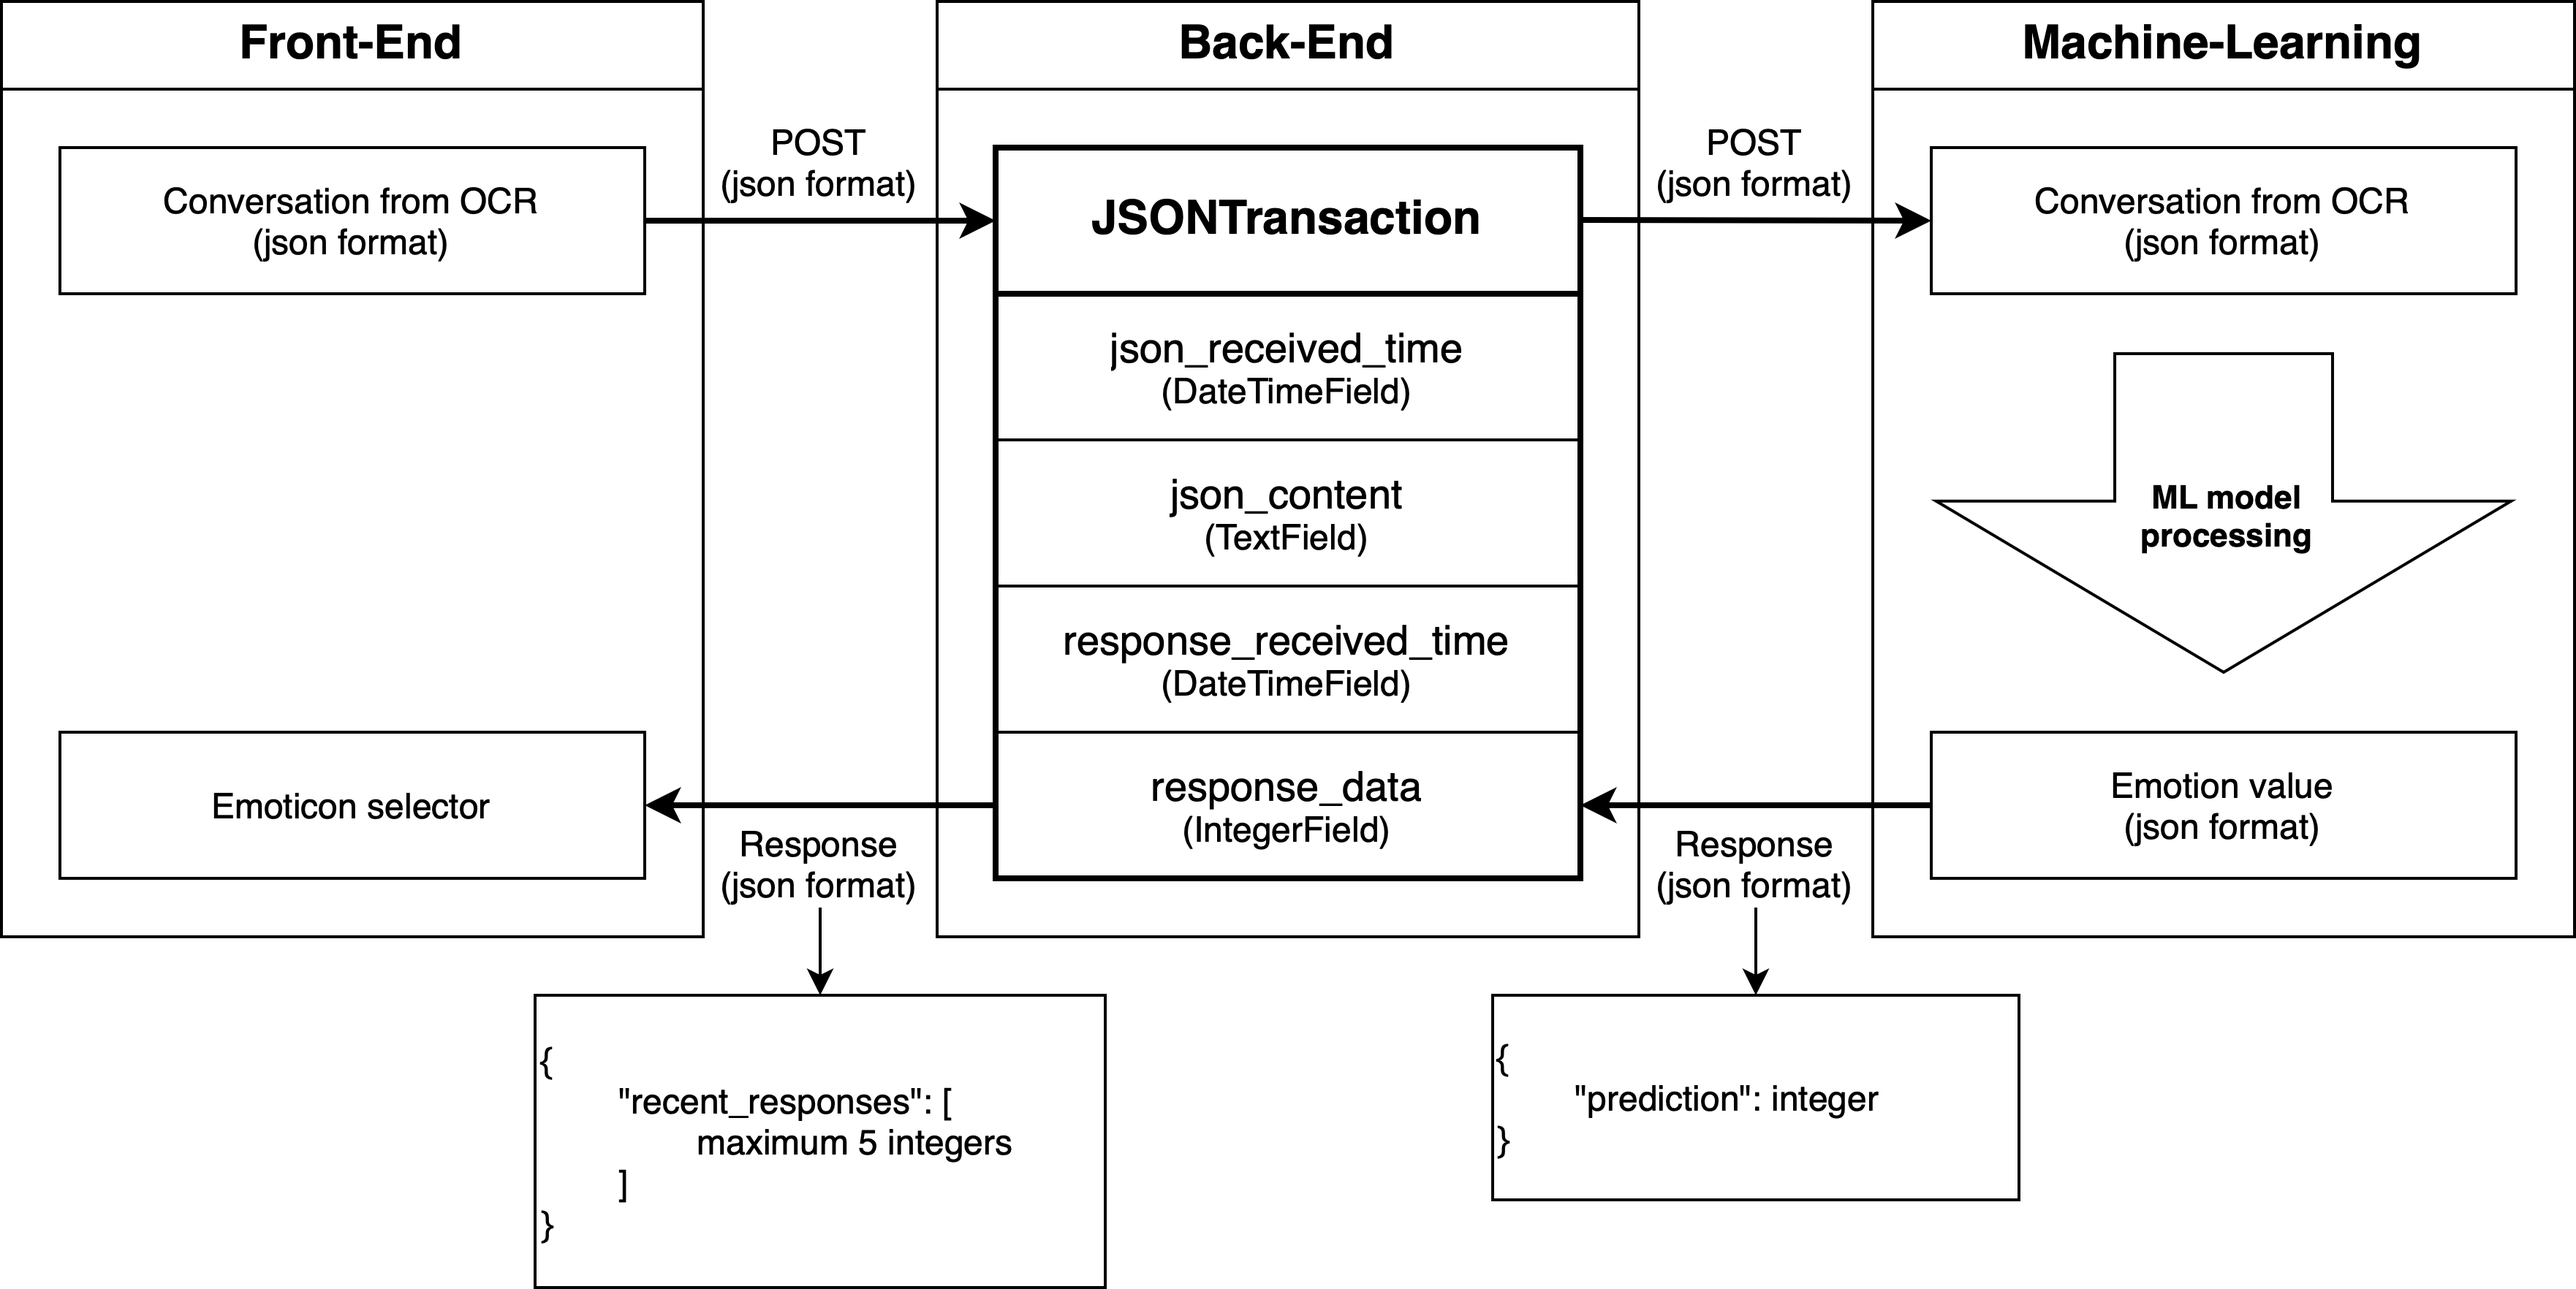
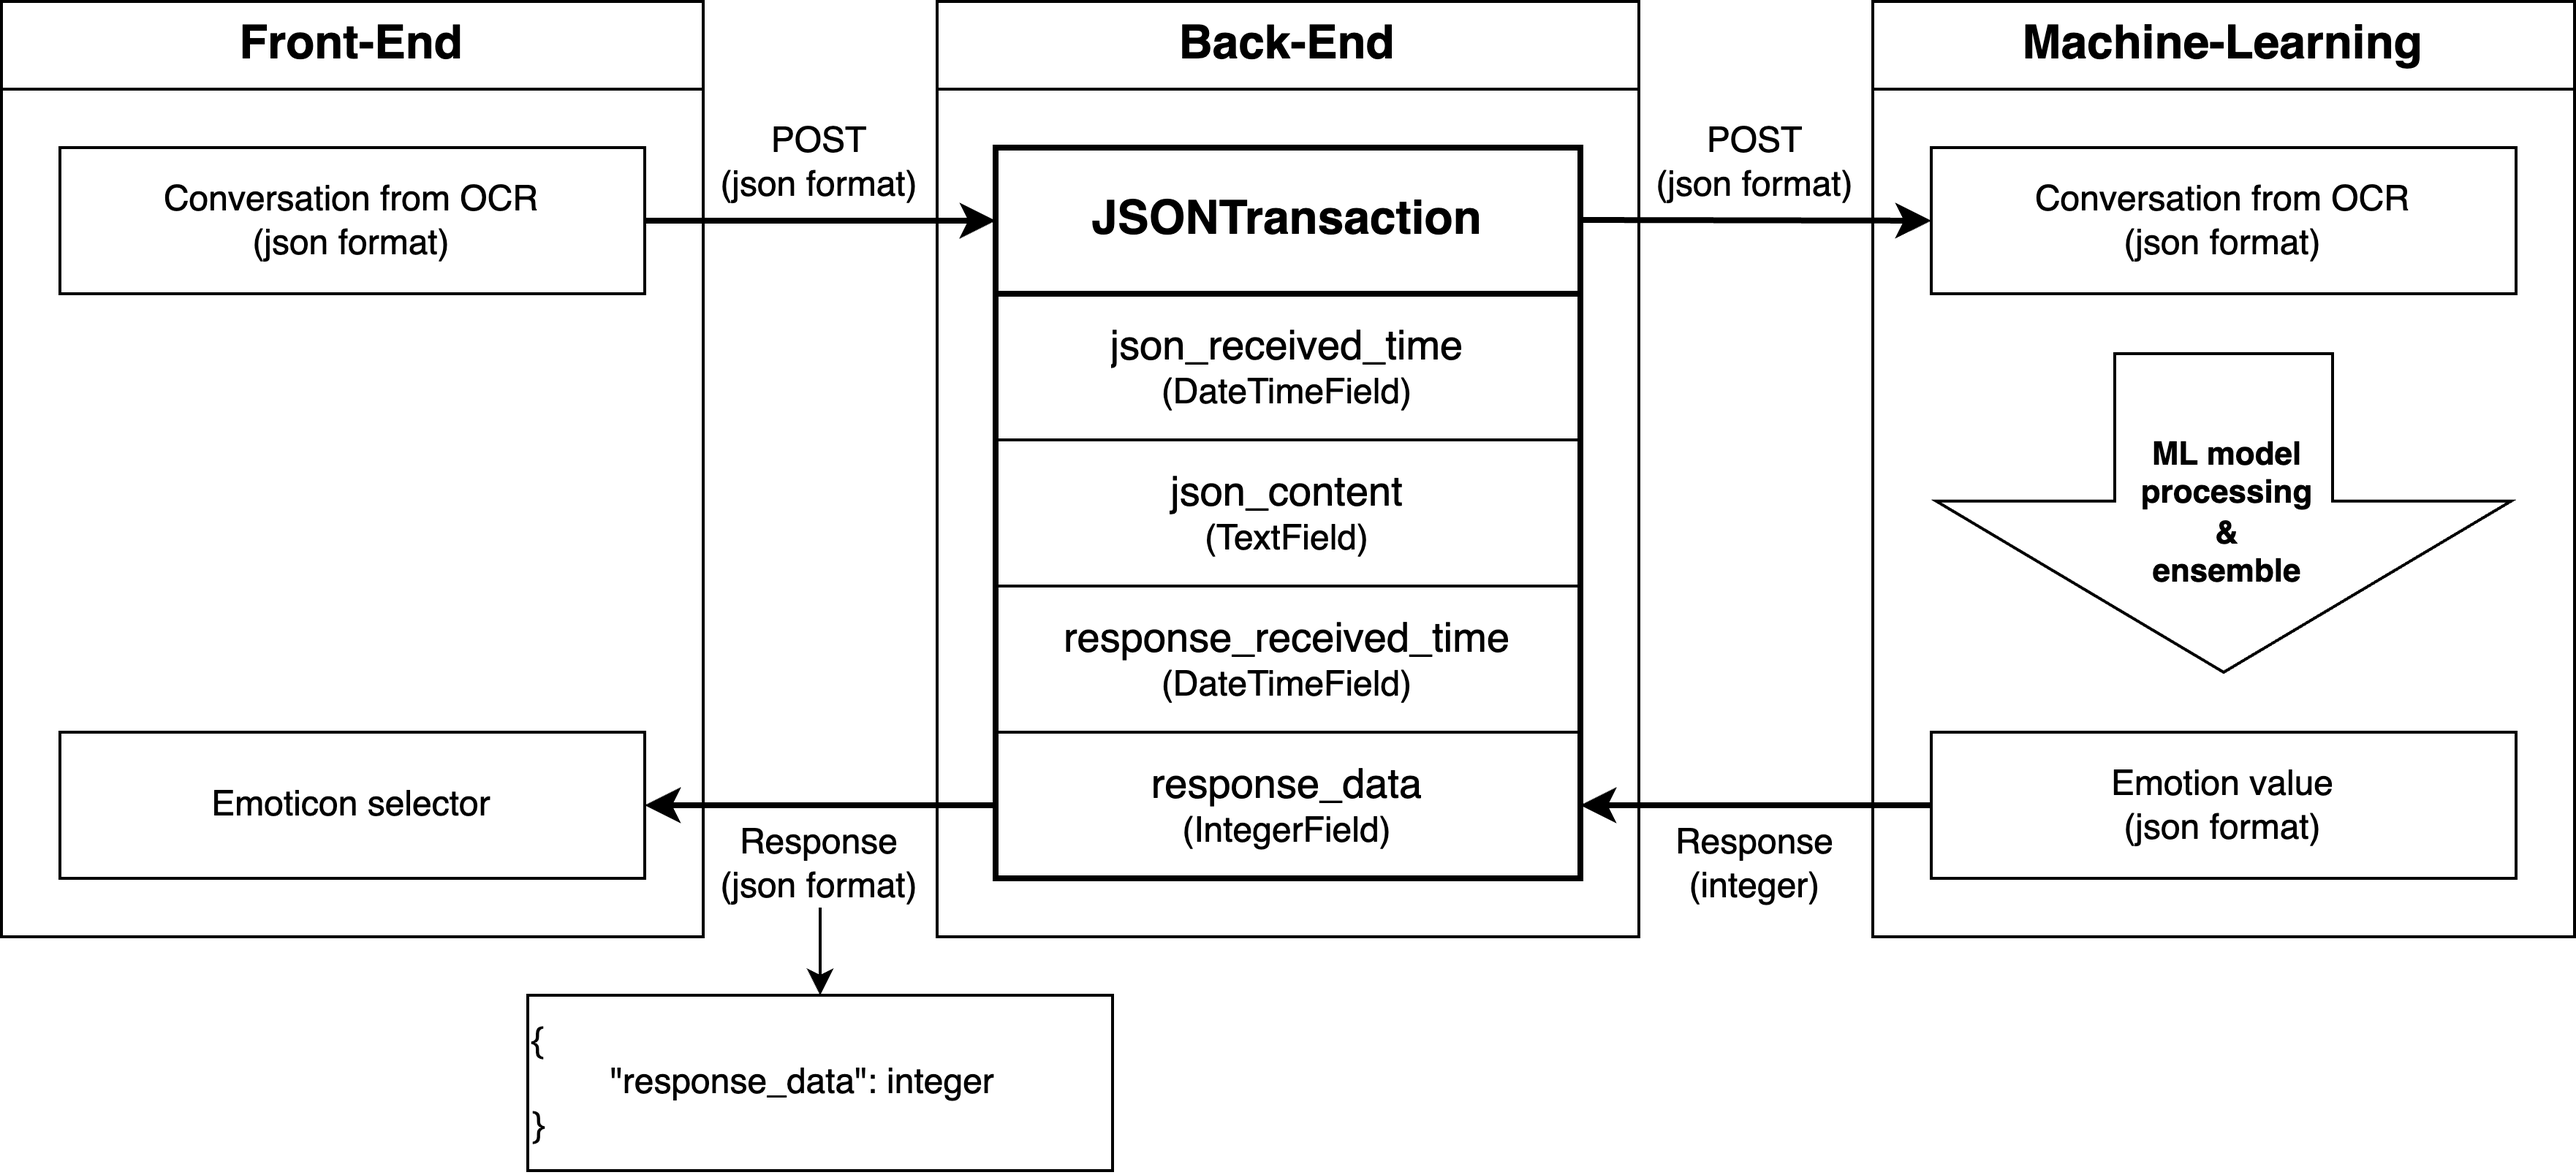
added ML models' processing codes updated views.py to fit ML models' output updated DB diagram

diff --git a/apis/templates/apis/change_list.html b/apis/templates/apis/change_list.html
@@ -41,7 +41,7 @@
                     .then(response => response.json())
                     .then(data => {
                         // 알림창에 JSON 응답 표시 후 새로고침
-                        if (data.recent_responses) {
+                        if (data.response_data) {
                             alert(`${JSON.stringify(data, null, 2)}`);
                             window.location.reload();
                         } else if (data.error) {

diff --git a/test_comm/FEtest.html b/test_comm/FEtest.html
@@ -19,7 +19,7 @@
         const responseText = document.getElementById("responseText");
         const downloadButton = document.getElementById("downloadButton");
 
-        const appName = "https://c774-211-198-109-254.ngrok-free.app";
+        const appName = "https://aca8-1-210-216-4.ngrok-free.app";
 
         uploadButton.addEventListener("click", async () => {
             if (fileInput.files.length === 0) {

diff --git a/test_comm/run_model.py b/test_comm/run_model.py
@@ -1,9 +1,4 @@
 import json
-from django.http import JsonResponse
-from django.utils import timezone
-from django.views.decorators.csrf import csrf_exempt
-from datetime import timedelta
-from .models import JSONTransaction
 
 import numpy as np
 import pandas as pd
@@ -19,7 +14,7 @@ logging.set_verbosity_error()  # ignore transformer warning
 # kogpt model
 class Kogpt:
     # check model path
-    MODEL_PATH = "../ML_models/jm_model.pt"
+    MODEL_PATH = "../../ML_models/jm_model.pt"
     TOKENIZER_NAME = "skt/kogpt2-base-v2"
 
     def __init__(self):
@@ -65,7 +60,7 @@ class Kogpt:
 # koelectra model
 class Koelectra:
     # check model path
-    MODEL_PATH = "../ML_models/koelectra_imbalanced.pt"  # manage.py 기준 상대 경로
+    MODEL_PATH = "../../ML_models/koelectra_imbalanced.pt"
     TOKENIZER_NAME = "monologg/koelectra-base-v3-discriminator"
 
     def __init__(self, device):
@@ -103,12 +98,12 @@ class Koelectra:
         return np.array(result)[0]
 
 
-def get_sentence(json_content):
-    target = json_content["images"][0][0]['fields'][0]['inferText']
+def get_sentence(file):
+    target = file["images"][0][0]['fields'][0]['inferText']
     start = False
     sentences = []
-
-    for d in json_content["images"][0][0]['fields'][2:]:
+    print(target)
+    for d in file["images"][0][0]['fields'][2:]:
         x = d['boundingPoly']['vertices'][0]['x']
         content = d['inferText']
 
@@ -125,31 +120,37 @@ def get_sentence(json_content):
                 start = True
                 temp = ""
 
-    print(sentences)
     func = lambda s: s[:list(re.finditer(f"오전|오후", s))[-1].span()[0] - 1]
+    print(sentences)
     sentences = [func(i) for i in sentences]
+    print(sentences)
     return sentences
 
 
-device = torch.device('cuda:0' if torch.cuda.is_available() else 'cpu')
+if __name__ == "__main__":
+    # Read JSON File
+    JSON_FILE_PATH = "./test3_dump.json"
 
-# Load KOGPT
-kogpt = Kogpt()
+    # for dump json file
+    """
+    temp = json.load(open(JSON_FILE_PATH, "r"))
+    with open("test_file.json", "w") as json_file:
+        json.dump(temp, json_file, indent=None, ensure_ascii=False)
+    """
 
-# Load KOELECTRA
-koelectra = Koelectra(device)
+    f = pd.read_json(JSON_FILE_PATH, lines=True)
+    sentences = get_sentence(file=f)
 
-# Load KOBERT
+    device = torch.device('cuda:0' if torch.cuda.is_available() else 'cpu')
 
+    # Load KOGPT
+    kogpt = Kogpt()
 
-def handle_received_json(json_content):
-    # 데이터가 실제로 존재하는지 확인
-    if not json_content:
-        return None
+    # Load KOELECTRA
+    koelectra = Koelectra(device)
 
-    j = pd.read_json(json_content, lines=True)
-    sentences = get_sentence(j)
-    print(sentences)
+    # Load KOBERT
+
 
     # Make Prediction
     label_decoder = {0: "sadness",
@@ -162,7 +163,6 @@ def handle_received_json(json_content):
 
     # if predict only last sentence
     sentence = sentences[-1]
-    print(sentence)
 
     # KOGPT Prediction
     kogpt_prediction = kogpt.predict(sentence)
@@ -171,57 +171,14 @@ def handle_received_json(json_content):
     koelectra_prediction = koelectra.predict(sentence)
 
     # KOBERT Prediction
-    # kobert_prediction = 0
+    kobert_prediction = 0
 
     print(f"kogpt_prediction : {kogpt_prediction} : {label_decoder[kogpt_prediction]}")
     print(f"koelectra_prediction : {koelectra_prediction} : {label_decoder[koelectra_prediction]}")
-    # print(f"kobert_prediction : {kobert_prediction} : {label_decoder[kobert_prediction]}")
+    print(f"kobert_prediction : {kobert_prediction} : {label_decoder[kobert_prediction]}")
 
     # ensemble
-    # prediction_list = [kogpt_prediction, koelectra_prediction, kobert_prediction]
-    prediction_list = [kogpt_prediction, koelectra_prediction]
+    prediction_list = [kogpt_prediction, koelectra_prediction, kobert_prediction]
     ensemble_result = max(prediction_list, key=prediction_list.count)
 
     print(f"ensemble_result : {ensemble_result} : {label_decoder[ensemble_result]}")
-
-    response_data = int(ensemble_result)
-
-    return response_data
-
-
-@csrf_exempt
-def process_json(request):
-    if request.method == 'POST':
-        json_content = request.body.decode('utf-8')
-        json_received_time = timezone.now()
-        response_data = handle_received_json(json_content)
-
-        # 데이터가 존재하지 않는 경우, 에러 메시지를 반환
-        if response_data is None:
-            return JsonResponse({'error': 'No data or empty data'})
-
-        response_received_time = timezone.now()
-
-        json_transaction = JSONTransaction.objects.create(
-            json_received_time=json_received_time,
-            json_content=json_content,
-            response_received_time=response_received_time,
-            response_data=response_data
-        )
-        json_transaction.save()
-
-        # 데이터베이스에 저장된 데이터가 10개 이상인 경우, 가장 오래된 데이터를 삭제
-        max_entries = 10
-        if JSONTransaction.objects.count() > max_entries:
-            oldest_entry = JSONTransaction.objects.order_by('json_received_time').first()
-            oldest_entry.delete()
-
-        # 24시간이 지난 데이터를 삭제
-        time_threshold = timezone.now() - timedelta(days=1)
-        expired_entries = JSONTransaction.objects.filter(json_received_time__lt=time_threshold)
-        expired_entries.delete()
-
-        # 정상적으로 처리된 경우, 응답 데이터를 반환
-        return JsonResponse({'response_data': response_data})
-
-    return JsonResponse({'error': 'Invalid request method'})

diff --git a/Backend/settings.py b/Backend/settings.py
@@ -25,7 +25,7 @@ SECRET_KEY = 'django-insecure-2$fkheqyg-@=bpso#1g&33c6vf63c38cop#rr8t)19#8#g%i(0
 # SECURITY WARNING: don't run with debug turned on in production!
 DEBUG = True
 
-ALLOWED_HOSTS = ['c774-211-198-109-254.ngrok-free.app',
+ALLOWED_HOSTS = ['aca8-1-210-216-4.ngrok-free.app',
                  '127.0.0.1']
 
 
@@ -57,11 +57,13 @@ MIDDLEWARE = [
 
 # for local test
 CORS_ALLOWED_ORIGINS = ['http://localhost:5500',
+                        'http://localhost:63342',
                         'http://localhost:63343',
                         'https://*.127.0.0.1',
                         'https://*.ngrok-free.app']
 
 CSRF_TRUSTED_ORIGINS = ['http://localhost:5500',
+                        'http://localhost:63342',
                         'http://localhost:63343',
                         'https://*.127.0.0.1',
                         'https://*.ngrok-free.app']
